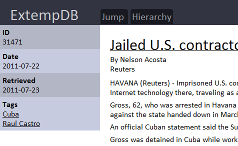
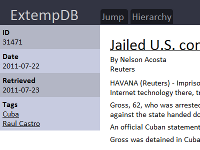
updated animation and table formatting

diff --git a/js/jquery-ui.js b/js/jquery-ui.js
@@ -1,0 +1,238 @@
+/*!
+ * jQuery UI 1.8.15
+ *
+ * Copyright 2011, AUTHORS.txt (http://jqueryui.com/about)
+ * Dual licensed under the MIT or GPL Version 2 licenses.
+ * http://jquery.org/license
+ *
+ * http://docs.jquery.com/UI
+ */
+(function(c,j){function k(a,b){var d=a.nodeName.toLowerCase();if("area"===d){b=a.parentNode;d=b.name;if(!a.href||!d||b.nodeName.toLowerCase()!=="map")return false;a=c("img[usemap=#"+d+"]")[0];return!!a&&l(a)}return(/input|select|textarea|button|object/.test(d)?!a.disabled:"a"==d?a.href||b:b)&&l(a)}function l(a){return!c(a).parents().andSelf().filter(function(){return c.curCSS(this,"visibility")==="hidden"||c.expr.filters.hidden(this)}).length}c.ui=c.ui||{};if(!c.ui.version){c.extend(c.ui,{version:"1.8.15",
+keyCode:{ALT:18,BACKSPACE:8,CAPS_LOCK:20,COMMA:188,COMMAND:91,COMMAND_LEFT:91,COMMAND_RIGHT:93,CONTROL:17,DELETE:46,DOWN:40,END:35,ENTER:13,ESCAPE:27,HOME:36,INSERT:45,LEFT:37,MENU:93,NUMPAD_ADD:107,NUMPAD_DECIMAL:110,NUMPAD_DIVIDE:111,NUMPAD_ENTER:108,NUMPAD_MULTIPLY:106,NUMPAD_SUBTRACT:109,PAGE_DOWN:34,PAGE_UP:33,PERIOD:190,RIGHT:39,SHIFT:16,SPACE:32,TAB:9,UP:38,WINDOWS:91}});c.fn.extend({propAttr:c.fn.prop||c.fn.attr,_focus:c.fn.focus,focus:function(a,b){return typeof a==="number"?this.each(function(){var d=
+this;setTimeout(function(){c(d).focus();b&&b.call(d)},a)}):this._focus.apply(this,arguments)},scrollParent:function(){var a;a=c.browser.msie&&/(static|relative)/.test(this.css("position"))||/absolute/.test(this.css("position"))?this.parents().filter(function(){return/(relative|absolute|fixed)/.test(c.curCSS(this,"position",1))&&/(auto|scroll)/.test(c.curCSS(this,"overflow",1)+c.curCSS(this,"overflow-y",1)+c.curCSS(this,"overflow-x",1))}).eq(0):this.parents().filter(function(){return/(auto|scroll)/.test(c.curCSS(this,
+"overflow",1)+c.curCSS(this,"overflow-y",1)+c.curCSS(this,"overflow-x",1))}).eq(0);return/fixed/.test(this.css("position"))||!a.length?c(document):a},zIndex:function(a){if(a!==j)return this.css("zIndex",a);if(this.length){a=c(this[0]);for(var b;a.length&&a[0]!==document;){b=a.css("position");if(b==="absolute"||b==="relative"||b==="fixed"){b=parseInt(a.css("zIndex"),10);if(!isNaN(b)&&b!==0)return b}a=a.parent()}}return 0},disableSelection:function(){return this.bind((c.support.selectstart?"selectstart":
+"mousedown")+".ui-disableSelection",function(a){a.preventDefault()})},enableSelection:function(){return this.unbind(".ui-disableSelection")}});c.each(["Width","Height"],function(a,b){function d(f,g,m,n){c.each(e,function(){g-=parseFloat(c.curCSS(f,"padding"+this,true))||0;if(m)g-=parseFloat(c.curCSS(f,"border"+this+"Width",true))||0;if(n)g-=parseFloat(c.curCSS(f,"margin"+this,true))||0});return g}var e=b==="Width"?["Left","Right"]:["Top","Bottom"],h=b.toLowerCase(),i={innerWidth:c.fn.innerWidth,innerHeight:c.fn.innerHeight,
+outerWidth:c.fn.outerWidth,outerHeight:c.fn.outerHeight};c.fn["inner"+b]=function(f){if(f===j)return i["inner"+b].call(this);return this.each(function(){c(this).css(h,d(this,f)+"px")})};c.fn["outer"+b]=function(f,g){if(typeof f!=="number")return i["outer"+b].call(this,f);return this.each(function(){c(this).css(h,d(this,f,true,g)+"px")})}});c.extend(c.expr[":"],{data:function(a,b,d){return!!c.data(a,d[3])},focusable:function(a){return k(a,!isNaN(c.attr(a,"tabindex")))},tabbable:function(a){var b=c.attr(a,
+"tabindex"),d=isNaN(b);return(d||b>=0)&&k(a,!d)}});c(function(){var a=document.body,b=a.appendChild(b=document.createElement("div"));c.extend(b.style,{minHeight:"100px",height:"auto",padding:0,borderWidth:0});c.support.minHeight=b.offsetHeight===100;c.support.selectstart="onselectstart"in b;a.removeChild(b).style.display="none"});c.extend(c.ui,{plugin:{add:function(a,b,d){a=c.ui[a].prototype;for(var e in d){a.plugins[e]=a.plugins[e]||[];a.plugins[e].push([b,d[e]])}},call:function(a,b,d){if((b=a.plugins[b])&&
+a.element[0].parentNode)for(var e=0;e<b.length;e++)a.options[b[e][0]]&&b[e][1].apply(a.element,d)}},contains:function(a,b){return document.compareDocumentPosition?a.compareDocumentPosition(b)&16:a!==b&&a.contains(b)},hasScroll:function(a,b){if(c(a).css("overflow")==="hidden")return false;b=b&&b==="left"?"scrollLeft":"scrollTop";var d=false;if(a[b]>0)return true;a[b]=1;d=a[b]>0;a[b]=0;return d},isOverAxis:function(a,b,d){return a>b&&a<b+d},isOver:function(a,b,d,e,h,i){return c.ui.isOverAxis(a,d,h)&&
+c.ui.isOverAxis(b,e,i)}})}})(jQuery);
+;/*
+ * jQuery UI Effects 1.8.15
+ *
+ * Copyright 2011, AUTHORS.txt (http://jqueryui.com/about)
+ * Dual licensed under the MIT or GPL Version 2 licenses.
+ * http://jquery.org/license
+ *
+ * http://docs.jquery.com/UI/Effects/
+ */
+jQuery.effects||function(f,j){function m(c){var a;if(c&&c.constructor==Array&&c.length==3)return c;if(a=/rgb\(\s*([0-9]{1,3})\s*,\s*([0-9]{1,3})\s*,\s*([0-9]{1,3})\s*\)/.exec(c))return[parseInt(a[1],10),parseInt(a[2],10),parseInt(a[3],10)];if(a=/rgb\(\s*([0-9]+(?:\.[0-9]+)?)\%\s*,\s*([0-9]+(?:\.[0-9]+)?)\%\s*,\s*([0-9]+(?:\.[0-9]+)?)\%\s*\)/.exec(c))return[parseFloat(a[1])*2.55,parseFloat(a[2])*2.55,parseFloat(a[3])*2.55];if(a=/#([a-fA-F0-9]{2})([a-fA-F0-9]{2})([a-fA-F0-9]{2})/.exec(c))return[parseInt(a[1],
+16),parseInt(a[2],16),parseInt(a[3],16)];if(a=/#([a-fA-F0-9])([a-fA-F0-9])([a-fA-F0-9])/.exec(c))return[parseInt(a[1]+a[1],16),parseInt(a[2]+a[2],16),parseInt(a[3]+a[3],16)];if(/rgba\(0, 0, 0, 0\)/.exec(c))return n.transparent;return n[f.trim(c).toLowerCase()]}function s(c,a){var b;do{b=f.curCSS(c,a);if(b!=""&&b!="transparent"||f.nodeName(c,"body"))break;a="backgroundColor"}while(c=c.parentNode);return m(b)}function o(){var c=document.defaultView?document.defaultView.getComputedStyle(this,null):this.currentStyle,
+a={},b,d;if(c&&c.length&&c[0]&&c[c[0]])for(var e=c.length;e--;){b=c[e];if(typeof c[b]=="string"){d=b.replace(/\-(\w)/g,function(g,h){return h.toUpperCase()});a[d]=c[b]}}else for(b in c)if(typeof c[b]==="string")a[b]=c[b];return a}function p(c){var a,b;for(a in c){b=c[a];if(b==null||f.isFunction(b)||a in t||/scrollbar/.test(a)||!/color/i.test(a)&&isNaN(parseFloat(b)))delete c[a]}return c}function u(c,a){var b={_:0},d;for(d in a)if(c[d]!=a[d])b[d]=a[d];return b}function k(c,a,b,d){if(typeof c=="object"){d=
+a;b=null;a=c;c=a.effect}if(f.isFunction(a)){d=a;b=null;a={}}if(typeof a=="number"||f.fx.speeds[a]){d=b;b=a;a={}}if(f.isFunction(b)){d=b;b=null}a=a||{};b=b||a.duration;b=f.fx.off?0:typeof b=="number"?b:b in f.fx.speeds?f.fx.speeds[b]:f.fx.speeds._default;d=d||a.complete;return[c,a,b,d]}function l(c){if(!c||typeof c==="number"||f.fx.speeds[c])return true;if(typeof c==="string"&&!f.effects[c])return true;return false}f.effects={};f.each(["backgroundColor","borderBottomColor","borderLeftColor","borderRightColor",
+"borderTopColor","borderColor","color","outlineColor"],function(c,a){f.fx.step[a]=function(b){if(!b.colorInit){b.start=s(b.elem,a);b.end=m(b.end);b.colorInit=true}b.elem.style[a]="rgb("+Math.max(Math.min(parseInt(b.pos*(b.end[0]-b.start[0])+b.start[0],10),255),0)+","+Math.max(Math.min(parseInt(b.pos*(b.end[1]-b.start[1])+b.start[1],10),255),0)+","+Math.max(Math.min(parseInt(b.pos*(b.end[2]-b.start[2])+b.start[2],10),255),0)+")"}});var n={aqua:[0,255,255],azure:[240,255,255],beige:[245,245,220],black:[0,
+0,0],blue:[0,0,255],brown:[165,42,42],cyan:[0,255,255],darkblue:[0,0,139],darkcyan:[0,139,139],darkgrey:[169,169,169],darkgreen:[0,100,0],darkkhaki:[189,183,107],darkmagenta:[139,0,139],darkolivegreen:[85,107,47],darkorange:[255,140,0],darkorchid:[153,50,204],darkred:[139,0,0],darksalmon:[233,150,122],darkviolet:[148,0,211],fuchsia:[255,0,255],gold:[255,215,0],green:[0,128,0],indigo:[75,0,130],khaki:[240,230,140],lightblue:[173,216,230],lightcyan:[224,255,255],lightgreen:[144,238,144],lightgrey:[211,
+211,211],lightpink:[255,182,193],lightyellow:[255,255,224],lime:[0,255,0],magenta:[255,0,255],maroon:[128,0,0],navy:[0,0,128],olive:[128,128,0],orange:[255,165,0],pink:[255,192,203],purple:[128,0,128],violet:[128,0,128],red:[255,0,0],silver:[192,192,192],white:[255,255,255],yellow:[255,255,0],transparent:[255,255,255]},q=["add","remove","toggle"],t={border:1,borderBottom:1,borderColor:1,borderLeft:1,borderRight:1,borderTop:1,borderWidth:1,margin:1,padding:1};f.effects.animateClass=function(c,a,b,
+d){if(f.isFunction(b)){d=b;b=null}return this.queue(function(){var e=f(this),g=e.attr("style")||" ",h=p(o.call(this)),r,v=e.attr("class");f.each(q,function(w,i){c[i]&&e[i+"Class"](c[i])});r=p(o.call(this));e.attr("class",v);e.animate(u(h,r),{queue:false,duration:a,easing:b,complete:function(){f.each(q,function(w,i){c[i]&&e[i+"Class"](c[i])});if(typeof e.attr("style")=="object"){e.attr("style").cssText="";e.attr("style").cssText=g}else e.attr("style",g);d&&d.apply(this,arguments);f.dequeue(this)}})})};
+f.fn.extend({_addClass:f.fn.addClass,addClass:function(c,a,b,d){return a?f.effects.animateClass.apply(this,[{add:c},a,b,d]):this._addClass(c)},_removeClass:f.fn.removeClass,removeClass:function(c,a,b,d){return a?f.effects.animateClass.apply(this,[{remove:c},a,b,d]):this._removeClass(c)},_toggleClass:f.fn.toggleClass,toggleClass:function(c,a,b,d,e){return typeof a=="boolean"||a===j?b?f.effects.animateClass.apply(this,[a?{add:c}:{remove:c},b,d,e]):this._toggleClass(c,a):f.effects.animateClass.apply(this,
+[{toggle:c},a,b,d])},switchClass:function(c,a,b,d,e){return f.effects.animateClass.apply(this,[{add:a,remove:c},b,d,e])}});f.extend(f.effects,{version:"1.8.15",save:function(c,a){for(var b=0;b<a.length;b++)a[b]!==null&&c.data("ec.storage."+a[b],c[0].style[a[b]])},restore:function(c,a){for(var b=0;b<a.length;b++)a[b]!==null&&c.css(a[b],c.data("ec.storage."+a[b]))},setMode:function(c,a){if(a=="toggle")a=c.is(":hidden")?"show":"hide";return a},getBaseline:function(c,a){var b;switch(c[0]){case "top":b=
+0;break;case "middle":b=0.5;break;case "bottom":b=1;break;default:b=c[0]/a.height}switch(c[1]){case "left":c=0;break;case "center":c=0.5;break;case "right":c=1;break;default:c=c[1]/a.width}return{x:c,y:b}},createWrapper:function(c){if(c.parent().is(".ui-effects-wrapper"))return c.parent();var a={width:c.outerWidth(true),height:c.outerHeight(true),"float":c.css("float")},b=f("<div></div>").addClass("ui-effects-wrapper").css({fontSize:"100%",background:"transparent",border:"none",margin:0,padding:0});
+c.wrap(b);b=c.parent();if(c.css("position")=="static"){b.css({position:"relative"});c.css({position:"relative"})}else{f.extend(a,{position:c.css("position"),zIndex:c.css("z-index")});f.each(["top","left","bottom","right"],function(d,e){a[e]=c.css(e);if(isNaN(parseInt(a[e],10)))a[e]="auto"});c.css({position:"relative",top:0,left:0,right:"auto",bottom:"auto"})}return b.css(a).show()},removeWrapper:function(c){if(c.parent().is(".ui-effects-wrapper"))return c.parent().replaceWith(c);return c},setTransition:function(c,
+a,b,d){d=d||{};f.each(a,function(e,g){unit=c.cssUnit(g);if(unit[0]>0)d[g]=unit[0]*b+unit[1]});return d}});f.fn.extend({effect:function(c){var a=k.apply(this,arguments),b={options:a[1],duration:a[2],callback:a[3]};a=b.options.mode;var d=f.effects[c];if(f.fx.off||!d)return a?this[a](b.duration,b.callback):this.each(function(){b.callback&&b.callback.call(this)});return d.call(this,b)},_show:f.fn.show,show:function(c){if(l(c))return this._show.apply(this,arguments);else{var a=k.apply(this,arguments);
+a[1].mode="show";return this.effect.apply(this,a)}},_hide:f.fn.hide,hide:function(c){if(l(c))return this._hide.apply(this,arguments);else{var a=k.apply(this,arguments);a[1].mode="hide";return this.effect.apply(this,a)}},__toggle:f.fn.toggle,toggle:function(c){if(l(c)||typeof c==="boolean"||f.isFunction(c))return this.__toggle.apply(this,arguments);else{var a=k.apply(this,arguments);a[1].mode="toggle";return this.effect.apply(this,a)}},cssUnit:function(c){var a=this.css(c),b=[];f.each(["em","px","%",
+"pt"],function(d,e){if(a.indexOf(e)>0)b=[parseFloat(a),e]});return b}});f.easing.jswing=f.easing.swing;f.extend(f.easing,{def:"easeOutQuad",swing:function(c,a,b,d,e){return f.easing[f.easing.def](c,a,b,d,e)},easeInQuad:function(c,a,b,d,e){return d*(a/=e)*a+b},easeOutQuad:function(c,a,b,d,e){return-d*(a/=e)*(a-2)+b},easeInOutQuad:function(c,a,b,d,e){if((a/=e/2)<1)return d/2*a*a+b;return-d/2*(--a*(a-2)-1)+b},easeInCubic:function(c,a,b,d,e){return d*(a/=e)*a*a+b},easeOutCubic:function(c,a,b,d,e){return d*
+((a=a/e-1)*a*a+1)+b},easeInOutCubic:function(c,a,b,d,e){if((a/=e/2)<1)return d/2*a*a*a+b;return d/2*((a-=2)*a*a+2)+b},easeInQuart:function(c,a,b,d,e){return d*(a/=e)*a*a*a+b},easeOutQuart:function(c,a,b,d,e){return-d*((a=a/e-1)*a*a*a-1)+b},easeInOutQuart:function(c,a,b,d,e){if((a/=e/2)<1)return d/2*a*a*a*a+b;return-d/2*((a-=2)*a*a*a-2)+b},easeInQuint:function(c,a,b,d,e){return d*(a/=e)*a*a*a*a+b},easeOutQuint:function(c,a,b,d,e){return d*((a=a/e-1)*a*a*a*a+1)+b},easeInOutQuint:function(c,a,b,d,e){if((a/=
+e/2)<1)return d/2*a*a*a*a*a+b;return d/2*((a-=2)*a*a*a*a+2)+b},easeInSine:function(c,a,b,d,e){return-d*Math.cos(a/e*(Math.PI/2))+d+b},easeOutSine:function(c,a,b,d,e){return d*Math.sin(a/e*(Math.PI/2))+b},easeInOutSine:function(c,a,b,d,e){return-d/2*(Math.cos(Math.PI*a/e)-1)+b},easeInExpo:function(c,a,b,d,e){return a==0?b:d*Math.pow(2,10*(a/e-1))+b},easeOutExpo:function(c,a,b,d,e){return a==e?b+d:d*(-Math.pow(2,-10*a/e)+1)+b},easeInOutExpo:function(c,a,b,d,e){if(a==0)return b;if(a==e)return b+d;if((a/=
+e/2)<1)return d/2*Math.pow(2,10*(a-1))+b;return d/2*(-Math.pow(2,-10*--a)+2)+b},easeInCirc:function(c,a,b,d,e){return-d*(Math.sqrt(1-(a/=e)*a)-1)+b},easeOutCirc:function(c,a,b,d,e){return d*Math.sqrt(1-(a=a/e-1)*a)+b},easeInOutCirc:function(c,a,b,d,e){if((a/=e/2)<1)return-d/2*(Math.sqrt(1-a*a)-1)+b;return d/2*(Math.sqrt(1-(a-=2)*a)+1)+b},easeInElastic:function(c,a,b,d,e){c=1.70158;var g=0,h=d;if(a==0)return b;if((a/=e)==1)return b+d;g||(g=e*0.3);if(h<Math.abs(d)){h=d;c=g/4}else c=g/(2*Math.PI)*Math.asin(d/
+h);return-(h*Math.pow(2,10*(a-=1))*Math.sin((a*e-c)*2*Math.PI/g))+b},easeOutElastic:function(c,a,b,d,e){c=1.70158;var g=0,h=d;if(a==0)return b;if((a/=e)==1)return b+d;g||(g=e*0.3);if(h<Math.abs(d)){h=d;c=g/4}else c=g/(2*Math.PI)*Math.asin(d/h);return h*Math.pow(2,-10*a)*Math.sin((a*e-c)*2*Math.PI/g)+d+b},easeInOutElastic:function(c,a,b,d,e){c=1.70158;var g=0,h=d;if(a==0)return b;if((a/=e/2)==2)return b+d;g||(g=e*0.3*1.5);if(h<Math.abs(d)){h=d;c=g/4}else c=g/(2*Math.PI)*Math.asin(d/h);if(a<1)return-0.5*
+h*Math.pow(2,10*(a-=1))*Math.sin((a*e-c)*2*Math.PI/g)+b;return h*Math.pow(2,-10*(a-=1))*Math.sin((a*e-c)*2*Math.PI/g)*0.5+d+b},easeInBack:function(c,a,b,d,e,g){if(g==j)g=1.70158;return d*(a/=e)*a*((g+1)*a-g)+b},easeOutBack:function(c,a,b,d,e,g){if(g==j)g=1.70158;return d*((a=a/e-1)*a*((g+1)*a+g)+1)+b},easeInOutBack:function(c,a,b,d,e,g){if(g==j)g=1.70158;if((a/=e/2)<1)return d/2*a*a*(((g*=1.525)+1)*a-g)+b;return d/2*((a-=2)*a*(((g*=1.525)+1)*a+g)+2)+b},easeInBounce:function(c,a,b,d,e){return d-f.easing.easeOutBounce(c,
+e-a,0,d,e)+b},easeOutBounce:function(c,a,b,d,e){return(a/=e)<1/2.75?d*7.5625*a*a+b:a<2/2.75?d*(7.5625*(a-=1.5/2.75)*a+0.75)+b:a<2.5/2.75?d*(7.5625*(a-=2.25/2.75)*a+0.9375)+b:d*(7.5625*(a-=2.625/2.75)*a+0.984375)+b},easeInOutBounce:function(c,a,b,d,e){if(a<e/2)return f.easing.easeInBounce(c,a*2,0,d,e)*0.5+b;return f.easing.easeOutBounce(c,a*2-e,0,d,e)*0.5+d*0.5+b}})}(jQuery);
+;/*
+ * jQuery UI Effects Blind 1.8.15
+ *
+ * Copyright 2011, AUTHORS.txt (http://jqueryui.com/about)
+ * Dual licensed under the MIT or GPL Version 2 licenses.
+ * http://jquery.org/license
+ *
+ * http://docs.jquery.com/UI/Effects/Blind
+ *
+ * Depends:
+ *	jquery.effects.core.js
+ */
+(function(b){b.effects.blind=function(c){return this.queue(function(){var a=b(this),g=["position","top","bottom","left","right"],f=b.effects.setMode(a,c.options.mode||"hide"),d=c.options.direction||"vertical";b.effects.save(a,g);a.show();var e=b.effects.createWrapper(a).css({overflow:"hidden"}),h=d=="vertical"?"height":"width";d=d=="vertical"?e.height():e.width();f=="show"&&e.css(h,0);var i={};i[h]=f=="show"?d:0;e.animate(i,c.duration,c.options.easing,function(){f=="hide"&&a.hide();b.effects.restore(a,
+g);b.effects.removeWrapper(a);c.callback&&c.callback.apply(a[0],arguments);a.dequeue()})})}})(jQuery);
+;/*
+ * jQuery UI Effects Bounce 1.8.15
+ *
+ * Copyright 2011, AUTHORS.txt (http://jqueryui.com/about)
+ * Dual licensed under the MIT or GPL Version 2 licenses.
+ * http://jquery.org/license
+ *
+ * http://docs.jquery.com/UI/Effects/Bounce
+ *
+ * Depends:
+ *	jquery.effects.core.js
+ */
+(function(e){e.effects.bounce=function(b){return this.queue(function(){var a=e(this),l=["position","top","bottom","left","right"],h=e.effects.setMode(a,b.options.mode||"effect"),d=b.options.direction||"up",c=b.options.distance||20,m=b.options.times||5,i=b.duration||250;/show|hide/.test(h)&&l.push("opacity");e.effects.save(a,l);a.show();e.effects.createWrapper(a);var f=d=="up"||d=="down"?"top":"left";d=d=="up"||d=="left"?"pos":"neg";c=b.options.distance||(f=="top"?a.outerHeight({margin:true})/3:a.outerWidth({margin:true})/
+3);if(h=="show")a.css("opacity",0).css(f,d=="pos"?-c:c);if(h=="hide")c/=m*2;h!="hide"&&m--;if(h=="show"){var g={opacity:1};g[f]=(d=="pos"?"+=":"-=")+c;a.animate(g,i/2,b.options.easing);c/=2;m--}for(g=0;g<m;g++){var j={},k={};j[f]=(d=="pos"?"-=":"+=")+c;k[f]=(d=="pos"?"+=":"-=")+c;a.animate(j,i/2,b.options.easing).animate(k,i/2,b.options.easing);c=h=="hide"?c*2:c/2}if(h=="hide"){g={opacity:0};g[f]=(d=="pos"?"-=":"+=")+c;a.animate(g,i/2,b.options.easing,function(){a.hide();e.effects.restore(a,l);e.effects.removeWrapper(a);
+b.callback&&b.callback.apply(this,arguments)})}else{j={};k={};j[f]=(d=="pos"?"-=":"+=")+c;k[f]=(d=="pos"?"+=":"-=")+c;a.animate(j,i/2,b.options.easing).animate(k,i/2,b.options.easing,function(){e.effects.restore(a,l);e.effects.removeWrapper(a);b.callback&&b.callback.apply(this,arguments)})}a.queue("fx",function(){a.dequeue()});a.dequeue()})}})(jQuery);
+;/*
+ * jQuery UI Effects Clip 1.8.15
+ *
+ * Copyright 2011, AUTHORS.txt (http://jqueryui.com/about)
+ * Dual licensed under the MIT or GPL Version 2 licenses.
+ * http://jquery.org/license
+ *
+ * http://docs.jquery.com/UI/Effects/Clip
+ *
+ * Depends:
+ *	jquery.effects.core.js
+ */
+(function(b){b.effects.clip=function(e){return this.queue(function(){var a=b(this),i=["position","top","bottom","left","right","height","width"],f=b.effects.setMode(a,e.options.mode||"hide"),c=e.options.direction||"vertical";b.effects.save(a,i);a.show();var d=b.effects.createWrapper(a).css({overflow:"hidden"});d=a[0].tagName=="IMG"?d:a;var g={size:c=="vertical"?"height":"width",position:c=="vertical"?"top":"left"};c=c=="vertical"?d.height():d.width();if(f=="show"){d.css(g.size,0);d.css(g.position,
+c/2)}var h={};h[g.size]=f=="show"?c:0;h[g.position]=f=="show"?0:c/2;d.animate(h,{queue:false,duration:e.duration,easing:e.options.easing,complete:function(){f=="hide"&&a.hide();b.effects.restore(a,i);b.effects.removeWrapper(a);e.callback&&e.callback.apply(a[0],arguments);a.dequeue()}})})}})(jQuery);
+;/*
+ * jQuery UI Effects Drop 1.8.15
+ *
+ * Copyright 2011, AUTHORS.txt (http://jqueryui.com/about)
+ * Dual licensed under the MIT or GPL Version 2 licenses.
+ * http://jquery.org/license
+ *
+ * http://docs.jquery.com/UI/Effects/Drop
+ *
+ * Depends:
+ *	jquery.effects.core.js
+ */
+(function(c){c.effects.drop=function(d){return this.queue(function(){var a=c(this),h=["position","top","bottom","left","right","opacity"],e=c.effects.setMode(a,d.options.mode||"hide"),b=d.options.direction||"left";c.effects.save(a,h);a.show();c.effects.createWrapper(a);var f=b=="up"||b=="down"?"top":"left";b=b=="up"||b=="left"?"pos":"neg";var g=d.options.distance||(f=="top"?a.outerHeight({margin:true})/2:a.outerWidth({margin:true})/2);if(e=="show")a.css("opacity",0).css(f,b=="pos"?-g:g);var i={opacity:e==
+"show"?1:0};i[f]=(e=="show"?b=="pos"?"+=":"-=":b=="pos"?"-=":"+=")+g;a.animate(i,{queue:false,duration:d.duration,easing:d.options.easing,complete:function(){e=="hide"&&a.hide();c.effects.restore(a,h);c.effects.removeWrapper(a);d.callback&&d.callback.apply(this,arguments);a.dequeue()}})})}})(jQuery);
+;/*
+ * jQuery UI Effects Explode 1.8.15
+ *
+ * Copyright 2011, AUTHORS.txt (http://jqueryui.com/about)
+ * Dual licensed under the MIT or GPL Version 2 licenses.
+ * http://jquery.org/license
+ *
+ * http://docs.jquery.com/UI/Effects/Explode
+ *
+ * Depends:
+ *	jquery.effects.core.js
+ */
+(function(j){j.effects.explode=function(a){return this.queue(function(){var c=a.options.pieces?Math.round(Math.sqrt(a.options.pieces)):3,d=a.options.pieces?Math.round(Math.sqrt(a.options.pieces)):3;a.options.mode=a.options.mode=="toggle"?j(this).is(":visible")?"hide":"show":a.options.mode;var b=j(this).show().css("visibility","hidden"),g=b.offset();g.top-=parseInt(b.css("marginTop"),10)||0;g.left-=parseInt(b.css("marginLeft"),10)||0;for(var h=b.outerWidth(true),i=b.outerHeight(true),e=0;e<c;e++)for(var f=
+0;f<d;f++)b.clone().appendTo("body").wrap("<div></div>").css({position:"absolute",visibility:"visible",left:-f*(h/d),top:-e*(i/c)}).parent().addClass("ui-effects-explode").css({position:"absolute",overflow:"hidden",width:h/d,height:i/c,left:g.left+f*(h/d)+(a.options.mode=="show"?(f-Math.floor(d/2))*(h/d):0),top:g.top+e*(i/c)+(a.options.mode=="show"?(e-Math.floor(c/2))*(i/c):0),opacity:a.options.mode=="show"?0:1}).animate({left:g.left+f*(h/d)+(a.options.mode=="show"?0:(f-Math.floor(d/2))*(h/d)),top:g.top+
+e*(i/c)+(a.options.mode=="show"?0:(e-Math.floor(c/2))*(i/c)),opacity:a.options.mode=="show"?1:0},a.duration||500);setTimeout(function(){a.options.mode=="show"?b.css({visibility:"visible"}):b.css({visibility:"visible"}).hide();a.callback&&a.callback.apply(b[0]);b.dequeue();j("div.ui-effects-explode").remove()},a.duration||500)})}})(jQuery);
+;/*
+ * jQuery UI Effects Fade 1.8.15
+ *
+ * Copyright 2011, AUTHORS.txt (http://jqueryui.com/about)
+ * Dual licensed under the MIT or GPL Version 2 licenses.
+ * http://jquery.org/license
+ *
+ * http://docs.jquery.com/UI/Effects/Fade
+ *
+ * Depends:
+ *	jquery.effects.core.js
+ */
+(function(b){b.effects.fade=function(a){return this.queue(function(){var c=b(this),d=b.effects.setMode(c,a.options.mode||"hide");c.animate({opacity:d},{queue:false,duration:a.duration,easing:a.options.easing,complete:function(){a.callback&&a.callback.apply(this,arguments);c.dequeue()}})})}})(jQuery);
+;/*
+ * jQuery UI Effects Fold 1.8.15
+ *
+ * Copyright 2011, AUTHORS.txt (http://jqueryui.com/about)
+ * Dual licensed under the MIT or GPL Version 2 licenses.
+ * http://jquery.org/license
+ *
+ * http://docs.jquery.com/UI/Effects/Fold
+ *
+ * Depends:
+ *	jquery.effects.core.js
+ */
+(function(c){c.effects.fold=function(a){return this.queue(function(){var b=c(this),j=["position","top","bottom","left","right"],d=c.effects.setMode(b,a.options.mode||"hide"),g=a.options.size||15,h=!!a.options.horizFirst,k=a.duration?a.duration/2:c.fx.speeds._default/2;c.effects.save(b,j);b.show();var e=c.effects.createWrapper(b).css({overflow:"hidden"}),f=d=="show"!=h,l=f?["width","height"]:["height","width"];f=f?[e.width(),e.height()]:[e.height(),e.width()];var i=/([0-9]+)%/.exec(g);if(i)g=parseInt(i[1],
+10)/100*f[d=="hide"?0:1];if(d=="show")e.css(h?{height:0,width:g}:{height:g,width:0});h={};i={};h[l[0]]=d=="show"?f[0]:g;i[l[1]]=d=="show"?f[1]:0;e.animate(h,k,a.options.easing).animate(i,k,a.options.easing,function(){d=="hide"&&b.hide();c.effects.restore(b,j);c.effects.removeWrapper(b);a.callback&&a.callback.apply(b[0],arguments);b.dequeue()})})}})(jQuery);
+;/*
+ * jQuery UI Effects Highlight 1.8.15
+ *
+ * Copyright 2011, AUTHORS.txt (http://jqueryui.com/about)
+ * Dual licensed under the MIT or GPL Version 2 licenses.
+ * http://jquery.org/license
+ *
+ * http://docs.jquery.com/UI/Effects/Highlight
+ *
+ * Depends:
+ *	jquery.effects.core.js
+ */
+(function(b){b.effects.highlight=function(c){return this.queue(function(){var a=b(this),e=["backgroundImage","backgroundColor","opacity"],d=b.effects.setMode(a,c.options.mode||"show"),f={backgroundColor:a.css("backgroundColor")};if(d=="hide")f.opacity=0;b.effects.save(a,e);a.show().css({backgroundImage:"none",backgroundColor:c.options.color||"#ffff99"}).animate(f,{queue:false,duration:c.duration,easing:c.options.easing,complete:function(){d=="hide"&&a.hide();b.effects.restore(a,e);d=="show"&&!b.support.opacity&&
+this.style.removeAttribute("filter");c.callback&&c.callback.apply(this,arguments);a.dequeue()}})})}})(jQuery);
+;/*
+ * jQuery UI Effects Pulsate 1.8.15
+ *
+ * Copyright 2011, AUTHORS.txt (http://jqueryui.com/about)
+ * Dual licensed under the MIT or GPL Version 2 licenses.
+ * http://jquery.org/license
+ *
+ * http://docs.jquery.com/UI/Effects/Pulsate
+ *
+ * Depends:
+ *	jquery.effects.core.js
+ */
+(function(d){d.effects.pulsate=function(a){return this.queue(function(){var b=d(this),c=d.effects.setMode(b,a.options.mode||"show");times=(a.options.times||5)*2-1;duration=a.duration?a.duration/2:d.fx.speeds._default/2;isVisible=b.is(":visible");animateTo=0;if(!isVisible){b.css("opacity",0).show();animateTo=1}if(c=="hide"&&isVisible||c=="show"&&!isVisible)times--;for(c=0;c<times;c++){b.animate({opacity:animateTo},duration,a.options.easing);animateTo=(animateTo+1)%2}b.animate({opacity:animateTo},duration,
+a.options.easing,function(){animateTo==0&&b.hide();a.callback&&a.callback.apply(this,arguments)});b.queue("fx",function(){b.dequeue()}).dequeue()})}})(jQuery);
+;/*
+ * jQuery UI Effects Scale 1.8.15
+ *
+ * Copyright 2011, AUTHORS.txt (http://jqueryui.com/about)
+ * Dual licensed under the MIT or GPL Version 2 licenses.
+ * http://jquery.org/license
+ *
+ * http://docs.jquery.com/UI/Effects/Scale
+ *
+ * Depends:
+ *	jquery.effects.core.js
+ */
+(function(c){c.effects.puff=function(b){return this.queue(function(){var a=c(this),e=c.effects.setMode(a,b.options.mode||"hide"),g=parseInt(b.options.percent,10)||150,h=g/100,i={height:a.height(),width:a.width()};c.extend(b.options,{fade:true,mode:e,percent:e=="hide"?g:100,from:e=="hide"?i:{height:i.height*h,width:i.width*h}});a.effect("scale",b.options,b.duration,b.callback);a.dequeue()})};c.effects.scale=function(b){return this.queue(function(){var a=c(this),e=c.extend(true,{},b.options),g=c.effects.setMode(a,
+b.options.mode||"effect"),h=parseInt(b.options.percent,10)||(parseInt(b.options.percent,10)==0?0:g=="hide"?0:100),i=b.options.direction||"both",f=b.options.origin;if(g!="effect"){e.origin=f||["middle","center"];e.restore=true}f={height:a.height(),width:a.width()};a.from=b.options.from||(g=="show"?{height:0,width:0}:f);h={y:i!="horizontal"?h/100:1,x:i!="vertical"?h/100:1};a.to={height:f.height*h.y,width:f.width*h.x};if(b.options.fade){if(g=="show"){a.from.opacity=0;a.to.opacity=1}if(g=="hide"){a.from.opacity=
+1;a.to.opacity=0}}e.from=a.from;e.to=a.to;e.mode=g;a.effect("size",e,b.duration,b.callback);a.dequeue()})};c.effects.size=function(b){return this.queue(function(){var a=c(this),e=["position","top","bottom","left","right","width","height","overflow","opacity"],g=["position","top","bottom","left","right","overflow","opacity"],h=["width","height","overflow"],i=["fontSize"],f=["borderTopWidth","borderBottomWidth","paddingTop","paddingBottom"],k=["borderLeftWidth","borderRightWidth","paddingLeft","paddingRight"],
+p=c.effects.setMode(a,b.options.mode||"effect"),n=b.options.restore||false,m=b.options.scale||"both",l=b.options.origin,j={height:a.height(),width:a.width()};a.from=b.options.from||j;a.to=b.options.to||j;if(l){l=c.effects.getBaseline(l,j);a.from.top=(j.height-a.from.height)*l.y;a.from.left=(j.width-a.from.width)*l.x;a.to.top=(j.height-a.to.height)*l.y;a.to.left=(j.width-a.to.width)*l.x}var d={from:{y:a.from.height/j.height,x:a.from.width/j.width},to:{y:a.to.height/j.height,x:a.to.width/j.width}};
+if(m=="box"||m=="both"){if(d.from.y!=d.to.y){e=e.concat(f);a.from=c.effects.setTransition(a,f,d.from.y,a.from);a.to=c.effects.setTransition(a,f,d.to.y,a.to)}if(d.from.x!=d.to.x){e=e.concat(k);a.from=c.effects.setTransition(a,k,d.from.x,a.from);a.to=c.effects.setTransition(a,k,d.to.x,a.to)}}if(m=="content"||m=="both")if(d.from.y!=d.to.y){e=e.concat(i);a.from=c.effects.setTransition(a,i,d.from.y,a.from);a.to=c.effects.setTransition(a,i,d.to.y,a.to)}c.effects.save(a,n?e:g);a.show();c.effects.createWrapper(a);
+a.css("overflow","hidden").css(a.from);if(m=="content"||m=="both"){f=f.concat(["marginTop","marginBottom"]).concat(i);k=k.concat(["marginLeft","marginRight"]);h=e.concat(f).concat(k);a.find("*[width]").each(function(){child=c(this);n&&c.effects.save(child,h);var o={height:child.height(),width:child.width()};child.from={height:o.height*d.from.y,width:o.width*d.from.x};child.to={height:o.height*d.to.y,width:o.width*d.to.x};if(d.from.y!=d.to.y){child.from=c.effects.setTransition(child,f,d.from.y,child.from);
+child.to=c.effects.setTransition(child,f,d.to.y,child.to)}if(d.from.x!=d.to.x){child.from=c.effects.setTransition(child,k,d.from.x,child.from);child.to=c.effects.setTransition(child,k,d.to.x,child.to)}child.css(child.from);child.animate(child.to,b.duration,b.options.easing,function(){n&&c.effects.restore(child,h)})})}a.animate(a.to,{queue:false,duration:b.duration,easing:b.options.easing,complete:function(){a.to.opacity===0&&a.css("opacity",a.from.opacity);p=="hide"&&a.hide();c.effects.restore(a,
+n?e:g);c.effects.removeWrapper(a);b.callback&&b.callback.apply(this,arguments);a.dequeue()}})})}})(jQuery);
+;/*
+ * jQuery UI Effects Shake 1.8.15
+ *
+ * Copyright 2011, AUTHORS.txt (http://jqueryui.com/about)
+ * Dual licensed under the MIT or GPL Version 2 licenses.
+ * http://jquery.org/license
+ *
+ * http://docs.jquery.com/UI/Effects/Shake
+ *
+ * Depends:
+ *	jquery.effects.core.js
+ */
+(function(d){d.effects.shake=function(a){return this.queue(function(){var b=d(this),j=["position","top","bottom","left","right"];d.effects.setMode(b,a.options.mode||"effect");var c=a.options.direction||"left",e=a.options.distance||20,l=a.options.times||3,f=a.duration||a.options.duration||140;d.effects.save(b,j);b.show();d.effects.createWrapper(b);var g=c=="up"||c=="down"?"top":"left",h=c=="up"||c=="left"?"pos":"neg";c={};var i={},k={};c[g]=(h=="pos"?"-=":"+=")+e;i[g]=(h=="pos"?"+=":"-=")+e*2;k[g]=
+(h=="pos"?"-=":"+=")+e*2;b.animate(c,f,a.options.easing);for(e=1;e<l;e++)b.animate(i,f,a.options.easing).animate(k,f,a.options.easing);b.animate(i,f,a.options.easing).animate(c,f/2,a.options.easing,function(){d.effects.restore(b,j);d.effects.removeWrapper(b);a.callback&&a.callback.apply(this,arguments)});b.queue("fx",function(){b.dequeue()});b.dequeue()})}})(jQuery);
+;/*
+ * jQuery UI Effects Slide 1.8.15
+ *
+ * Copyright 2011, AUTHORS.txt (http://jqueryui.com/about)
+ * Dual licensed under the MIT or GPL Version 2 licenses.
+ * http://jquery.org/license
+ *
+ * http://docs.jquery.com/UI/Effects/Slide
+ *
+ * Depends:
+ *	jquery.effects.core.js
+ */
+(function(c){c.effects.slide=function(d){return this.queue(function(){var a=c(this),h=["position","top","bottom","left","right"],f=c.effects.setMode(a,d.options.mode||"show"),b=d.options.direction||"left";c.effects.save(a,h);a.show();c.effects.createWrapper(a).css({overflow:"hidden"});var g=b=="up"||b=="down"?"top":"left";b=b=="up"||b=="left"?"pos":"neg";var e=d.options.distance||(g=="top"?a.outerHeight({margin:true}):a.outerWidth({margin:true}));if(f=="show")a.css(g,b=="pos"?isNaN(e)?"-"+e:-e:e);
+var i={};i[g]=(f=="show"?b=="pos"?"+=":"-=":b=="pos"?"-=":"+=")+e;a.animate(i,{queue:false,duration:d.duration,easing:d.options.easing,complete:function(){f=="hide"&&a.hide();c.effects.restore(a,h);c.effects.removeWrapper(a);d.callback&&d.callback.apply(this,arguments);a.dequeue()}})})}})(jQuery);
+;/*
+ * jQuery UI Effects Transfer 1.8.15
+ *
+ * Copyright 2011, AUTHORS.txt (http://jqueryui.com/about)
+ * Dual licensed under the MIT or GPL Version 2 licenses.
+ * http://jquery.org/license
+ *
+ * http://docs.jquery.com/UI/Effects/Transfer
+ *
+ * Depends:
+ *	jquery.effects.core.js
+ */
+(function(e){e.effects.transfer=function(a){return this.queue(function(){var b=e(this),c=e(a.options.to),d=c.offset();c={top:d.top,left:d.left,height:c.innerHeight(),width:c.innerWidth()};d=b.offset();var f=e('<div class="ui-effects-transfer"></div>').appendTo(document.body).addClass(a.options.className).css({top:d.top,left:d.left,height:b.innerHeight(),width:b.innerWidth(),position:"absolute"}).animate(c,a.duration,a.options.easing,function(){f.remove();a.callback&&a.callback.apply(b[0],arguments);
+b.dequeue()})})}})(jQuery);
+;

diff --git a/index.html b/index.html
@@ -2,7 +2,7 @@
 <html>
     <head>
         <title>
-            This is the title
+            Pre-Alpha Software
         </title>
         
         <link href="./css/reset.css" rel="stylesheet" type="text/css" />
@@ -12,6 +12,7 @@
 
         
         <script src="./js/jquery.js"></script>
+        <script src="./js/jquery-ui.js"></script>
         <script src="./js/style.js"></script>
         <script src="./js/script.js"></script>
     </head>

diff --git a/js/script.js b/js/script.js
@@ -15,12 +15,12 @@ function jumpto(target){
 	var work=false;	
 
 	//hide previously visible div
-	$(".visible").hide("fast",function(){
-		$(target).show("fast");
+	$(".visible").hide("blind","fast",function(){
+		$(target).show("blind","fast");
 		work=true;	
 	});
 	if(!work){
-		$(target).show("slow");
+		//$(target).show("clip","slow");
 	}
 	
 	$(".visible").removeClass("visible");

diff --git a/css/positioning.css b/css/positioning.css
@@ -71,12 +71,14 @@ nav{
 #content{
 	padding-left:20px;
 	padding-top:15px;
-	padding-right:25%
+	padding-right:25%;
 }
 
 .contentDiv{
 	display:none;
 }
 
-.pro{
+.pro>tbody>tr>td:first-child{
+	width:220px;
+	height:;
 }
